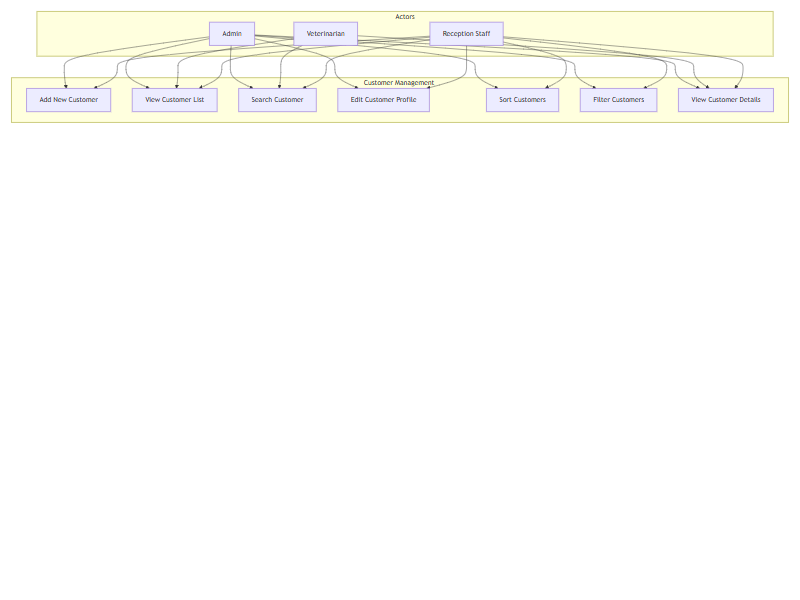
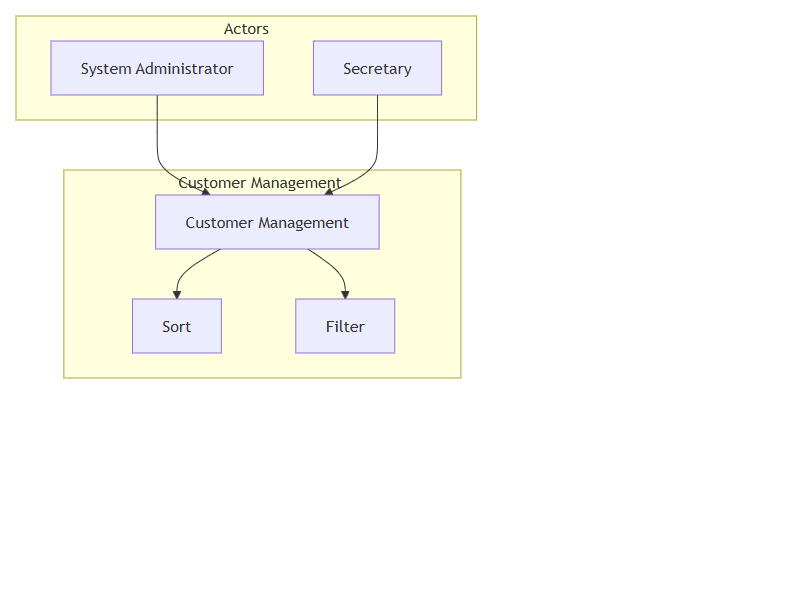
An idea for the diagram

Changed region(s): [[0.0, 0.0, 1.0, 0.21], [0.0625, 0.27, 0.5938, 0.63]]

diff --git a/Use Cases/customer_management.md b/Use Cases/customer_management.md
@@ -1,46 +1,23 @@
 ```mermaid
 graph TB
     subgraph Actors
-        A1[Admin]
-        A2[Veterinarian]
-        A3[Reception Staff]
+        Admin[System Administrator]
+        Secretary[Secretary]
     end
 
     subgraph Customer Management System
-        UC1[Add New Customer]
-        UC2[View Customer List]
-        UC3[Search Customer]
-        UC4[Edit Customer Profile]
-        UC5[Sort Customers]
-        UC6[Filter Customers]
-        UC7[View Customer Details]
+        CM[Customer Management]
+        S[Sort]
+        F[Filter]
     end
 
-    A1 --> UC1
-    A1 --> UC2
-    A1 --> UC3
-    A1 --> UC4
-    A1 --> UC5
-    A1 --> UC6
-    A1 --> UC7
+    Admin --> CM
+    Secretary --> CM
 
-    A2 --> UC2
-    A2 --> UC3
-    A2 --> UC7
+    CM --> S
+    CM --> F
 
-    A3 --> UC1
-    A3 --> UC2
-    A3 --> UC3
-    A3 --> UC4
-    A3 --> UC5
-    A3 --> UC6
-    A3 --> UC7
-
-click UC1 call linkCallback("c:/Users/biovo/Desktop/GitHub Projects/Pet-a-Vet/Use Cases/Use-case-v0.1.tex#L28")
-click UC2 call linkCallback("c:/Users/biovo/Desktop/GitHub Projects/Pet-a-Vet/Use Cases/Use-case-v0.1.tex#L39")
-click UC3 call linkCallback("c:/Users/biovo/Desktop/GitHub Projects/Pet-a-Vet/Use Cases/Use-case-v0.1.tex#L55")
-click UC4 call linkCallback("c:/Users/biovo/Desktop/GitHub Projects/Pet-a-Vet/Use Cases/Use-case-v0.1.tex#L64")
-click UC5 call linkCallback("c:/Users/biovo/Desktop/GitHub Projects/Pet-a-Vet/Use Cases/Use-case-v0.1.tex#L73")
-click UC6 call linkCallback("c:/Users/biovo/Desktop/GitHub Projects/Pet-a-Vet/Use Cases/Use-case-v0.1.tex#L79")
-click UC7 call linkCallback("c:/Users/biovo/Desktop/GitHub Projects/Pet-a-Vet/Use Cases/Use-case-v0.1.tex#L107")
+    click CM call linkCallback("d:/Documents/GitHub/Pet-a-Vet/Use Cases/Use-case-v0.1.tex#L411")
+    click S call linkCallback("d:/Documents/GitHub/Pet-a-Vet/Use Cases/Use-case-v0.1.tex#L565")
+    click F call linkCallback("d:/Documents/GitHub/Pet-a-Vet/Use Cases/Use-case-v0.1.tex#L632")
 ```
